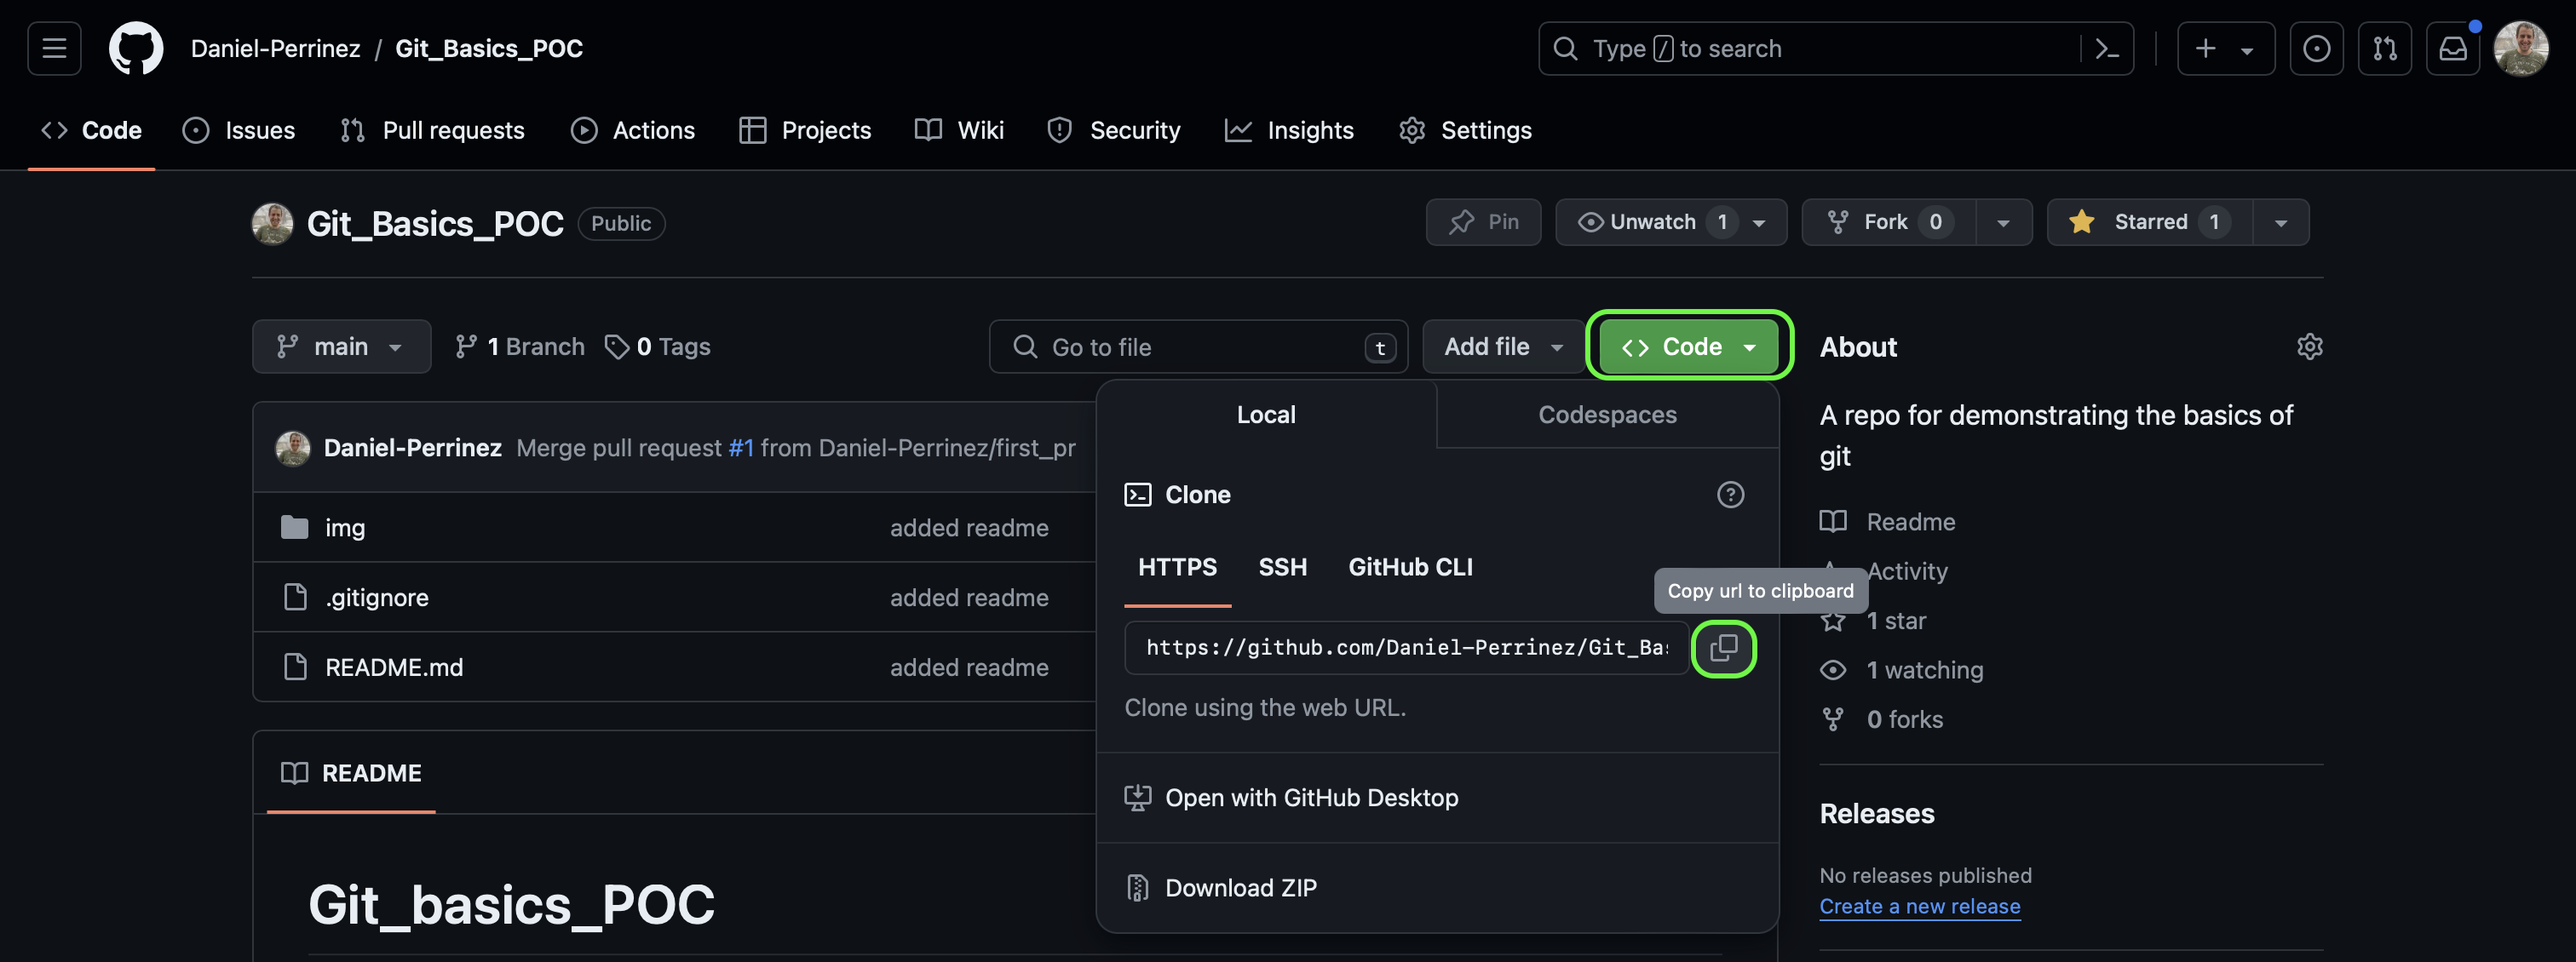
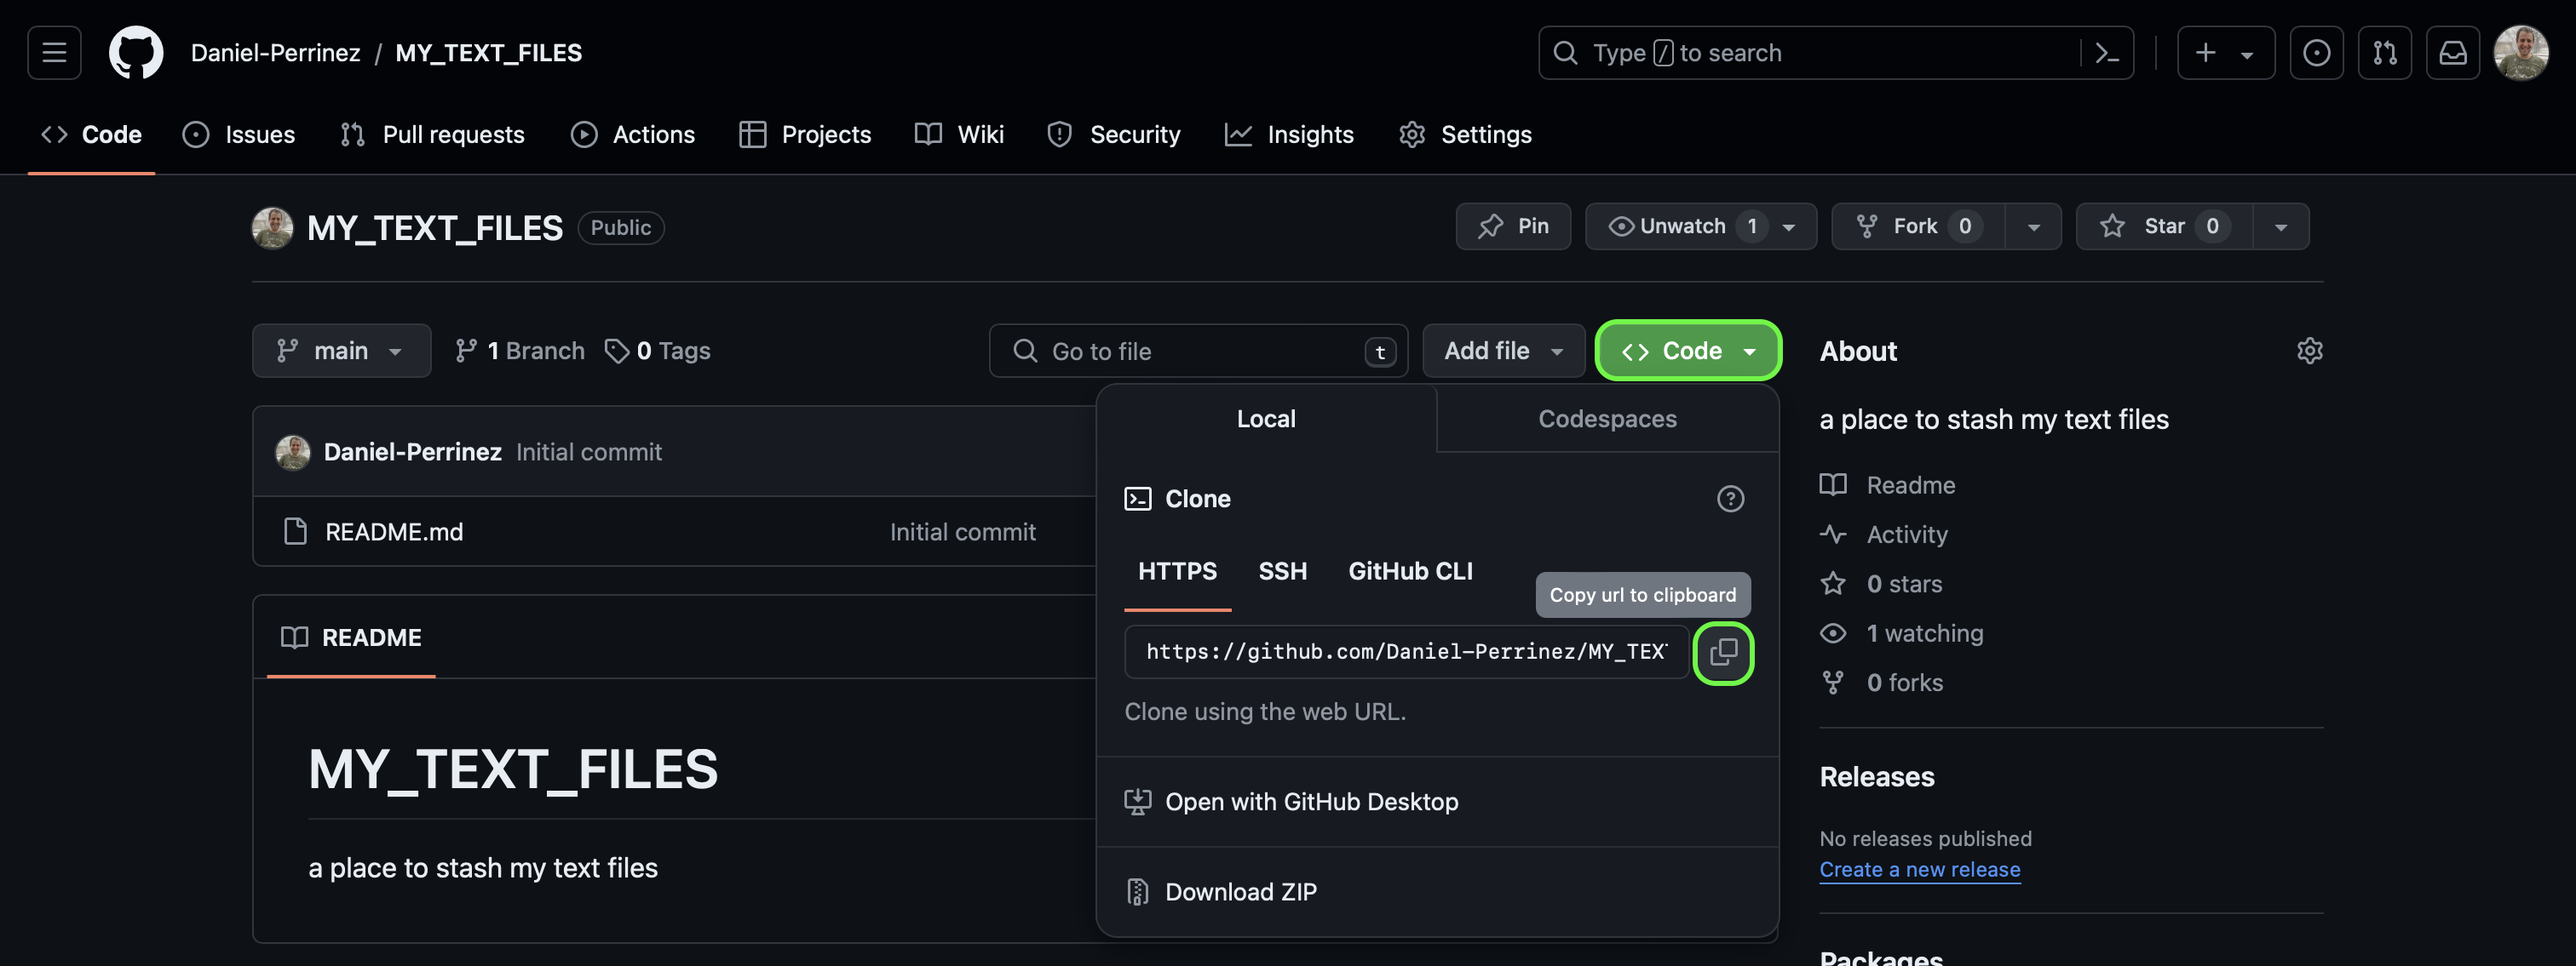
updating howto

diff --git a/Backup_Your_Text_Files/How_To_Backup_Your_Text_Files.md b/Backup_Your_Text_Files/How_To_Backup_Your_Text_Files.md
@@ -1,14 +1,60 @@
 # How to Backup Your Text Files in Github
-Scenario:
-You have a bunch on notes saved locally as text files.
-Let's back those up in the cloud before your workstation dies.
+## Scenario: You have a bunch on notes saved locally as text files.
+### Let's back those up in the cloud before your workstation dies.
 
-1. Create a github account: https://github.com/signup?source=login
-2. ![Create a new repository to store your files](img/create-new-repo.png)
-3. ![Copy your repo url](img/copy-repo-url.png)
+1. Create a github account: 
+    https://github.com/signup?source=login
+2. Create a new repository to store your files:
+    ![Create a new repository to store your files](img/create-new-repo-1.png)
+    ![Create a new repository to store your files](img/create-new-repo-2.png)
+3. Copy your repo url:
+    ![Copy your repo url](img/copy-repo-url.png)
 4. Open command prompt / terminal on your workstation
     change directory (cd) to your Desktop and clone your new repo.
     ```
     $ cd ~/Desktop
-    $ git clone https://github.com/Daniel-Perrinez/Git_Basics_POC.git
+    $ git clone https://github.com/Daniel-Perrinez/MY_TEXT_FILES.git
     ```
+5. Add your files to this directory.
+
+    Once you've moved all of your files to the repository directory you should view your repo status.
+    ```
+    $ git status
+    ```
+    ![Copy your repo url](img/git-status.png)
+
+    Now 'add' your files to staging and commit them to your repository
+    ```
+    $ git add .
+    $ git status
+    ```
+    ![Copy your repo url](img/git-status.png)
+
+    Now commit these files to your repository.
+    ```
+    $ git commit -a -m "backing up my text files to github"
+    ```
+    ![Copy your repo url](img/git-commit.png)
+    
+    Great, now your files have been added to source control, but they're still not backup in the cloud yet.
+
+6. Finally push your files to github
+    ```
+    $ git push origin main
+    ```
+
+This is the workflow moving forward:
+```
+git checkout main
+git pull origin main
+git checkout -b <new-branch-name>
+```
+
+Make some changes to files.
+```
+git add .
+git commit -a -m "Add update to my files"
+```
+Commit frequently
+
+[Markdown cheat sheet](https://www.markdownguide.org/cheat-sheet/)
